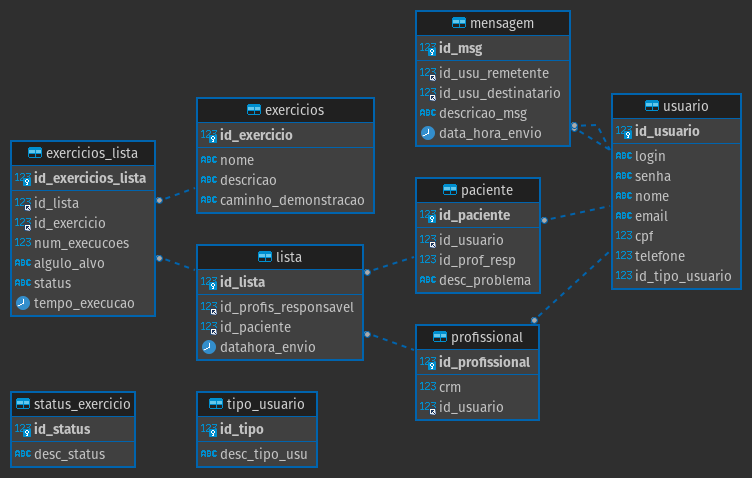
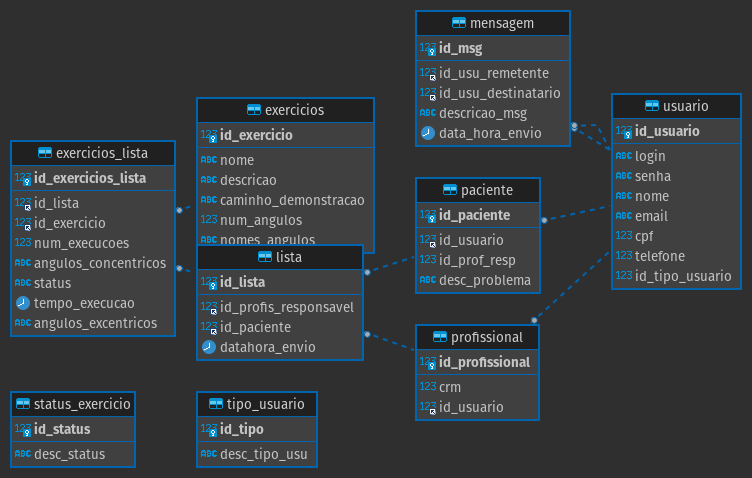
corrigindo mensagem no front e diagrama do banco

diff --git a/front/index.html b/front/index.html
@@ -15,10 +15,7 @@
     <div class="canvas-container">
         <div id="cnv">
             <canvas id="output"></canvas>
-            <div id="msg" class="hide">
-                Exercício finalizado!<br />
-                <a href="javascript:message();" style="color: inherit;">voltar</a>
-            </div>
+            <div id="msg" class="hide"></div>
         </div>
 
         <div id="bar">
@@ -83,15 +80,17 @@
 
         if (config) {
             var exe = new Exercise(config, angles);
+            exe.onFinish = message;
         }
         else {
             alert('Nenhum exercicio configurado!')
         }
 
         function message() {
-            opener.postMessage('completed', '*');
-            completed = true;
-            close();
+            if (opener) {
+                opener.postMessage('completed', '*');
+                completed = true;
+            }
         }
 
         window.onbeforeunload = (e) => {

diff --git a/front/js/exercise.js b/front/js/exercise.js
@@ -209,6 +209,7 @@ class Exercise {
 
             if (this.setCount < this.setMax) {
 
+                message.innerText = `${this.setCount} / ${this.setMax} séries finalizadas!`
                 message.className = 'show';
                 setTimeout(() => {
                     message.className = 'hide';
@@ -231,6 +232,8 @@ class Exercise {
             else {
                 this.finished = true;
                 this.onFinish();
+                message.innerHTML = `Exercício finalizado!<br />
+                <a href="javascript:close();" style="color: inherit;">voltar</a>`
                 message.className = 'show';
             }
         }
